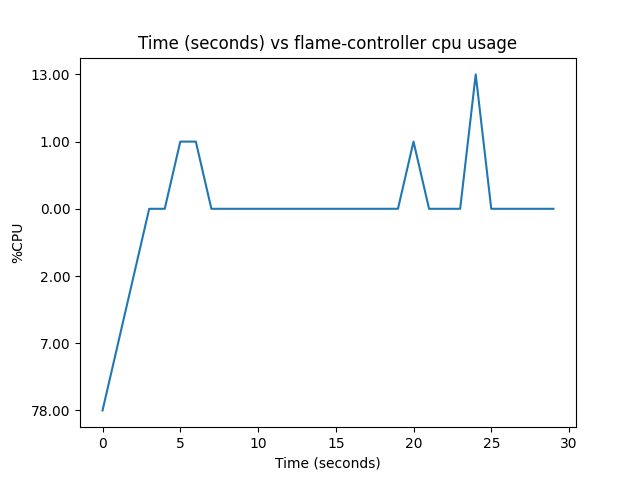
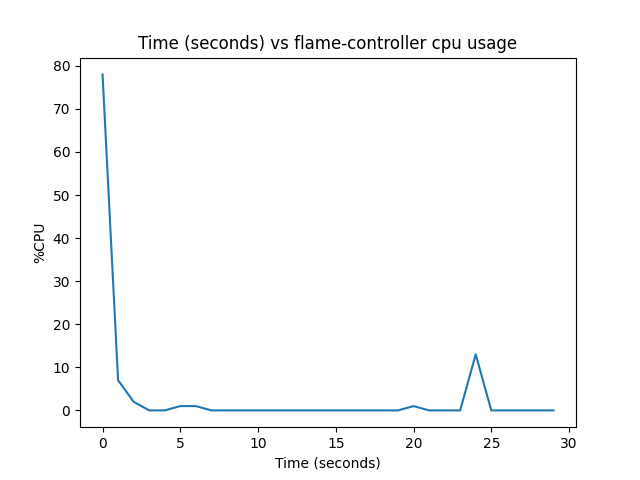
fixed log plot

diff --git a/logger.py b/logger.py
@@ -11,7 +11,7 @@ lines = log_file.readlines()[3:-1]
 
 for line in lines:
     print(line.split()[8])
-    cpu_usage.append(line.split()[8])
+    cpu_usage.append(float(line.split()[8]))
 
 log_file.close()
 
